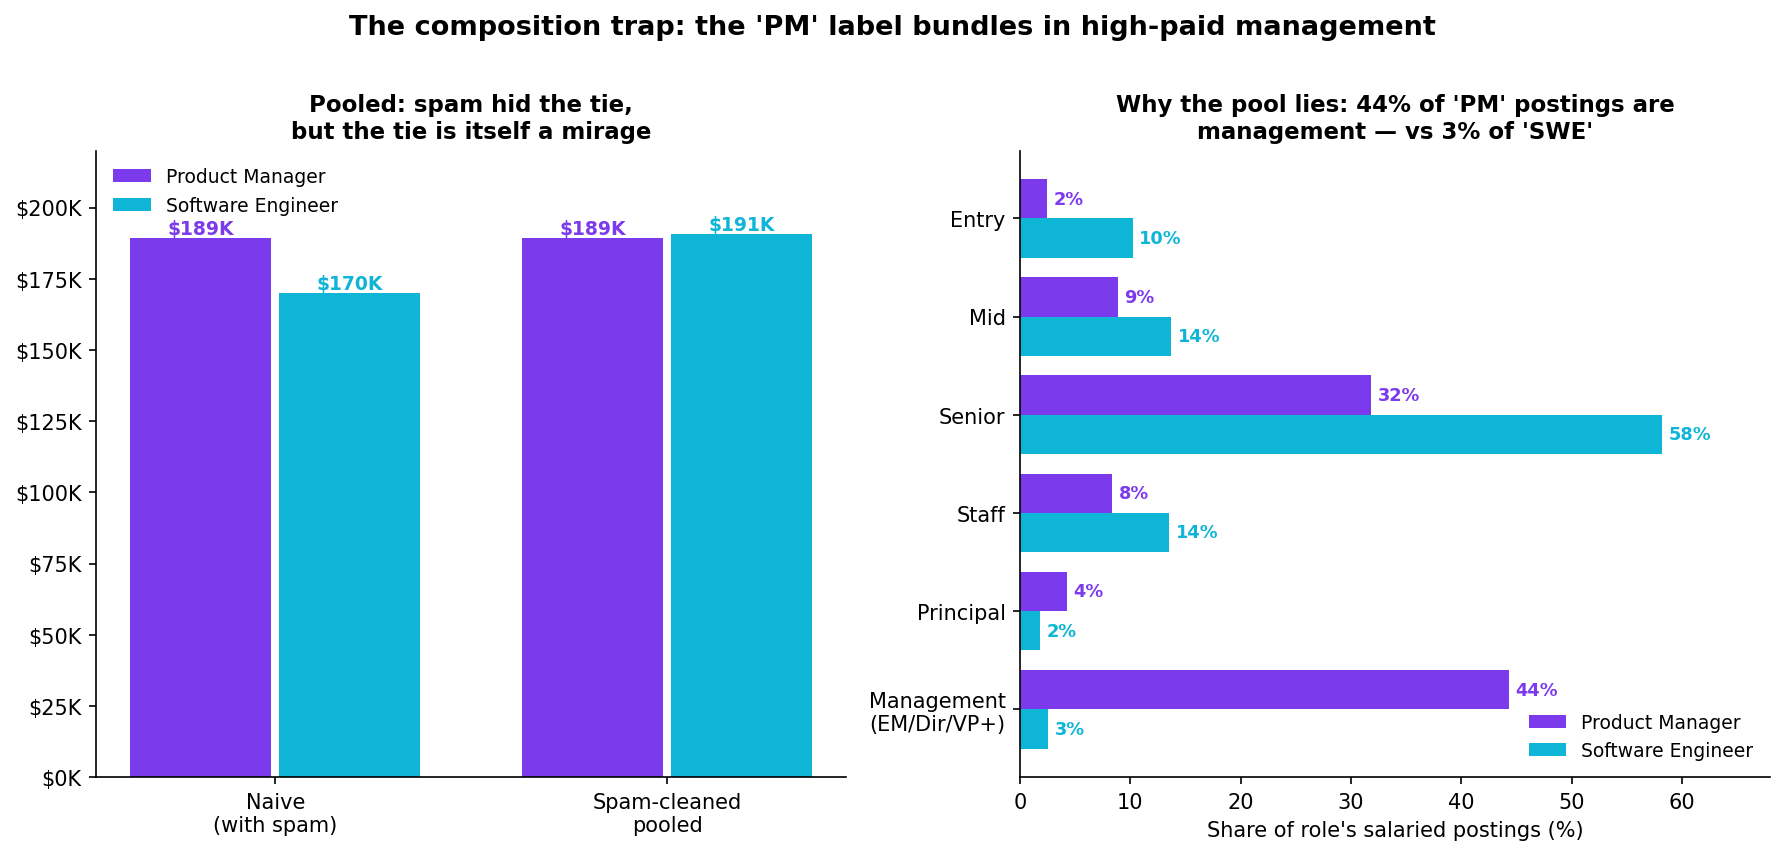
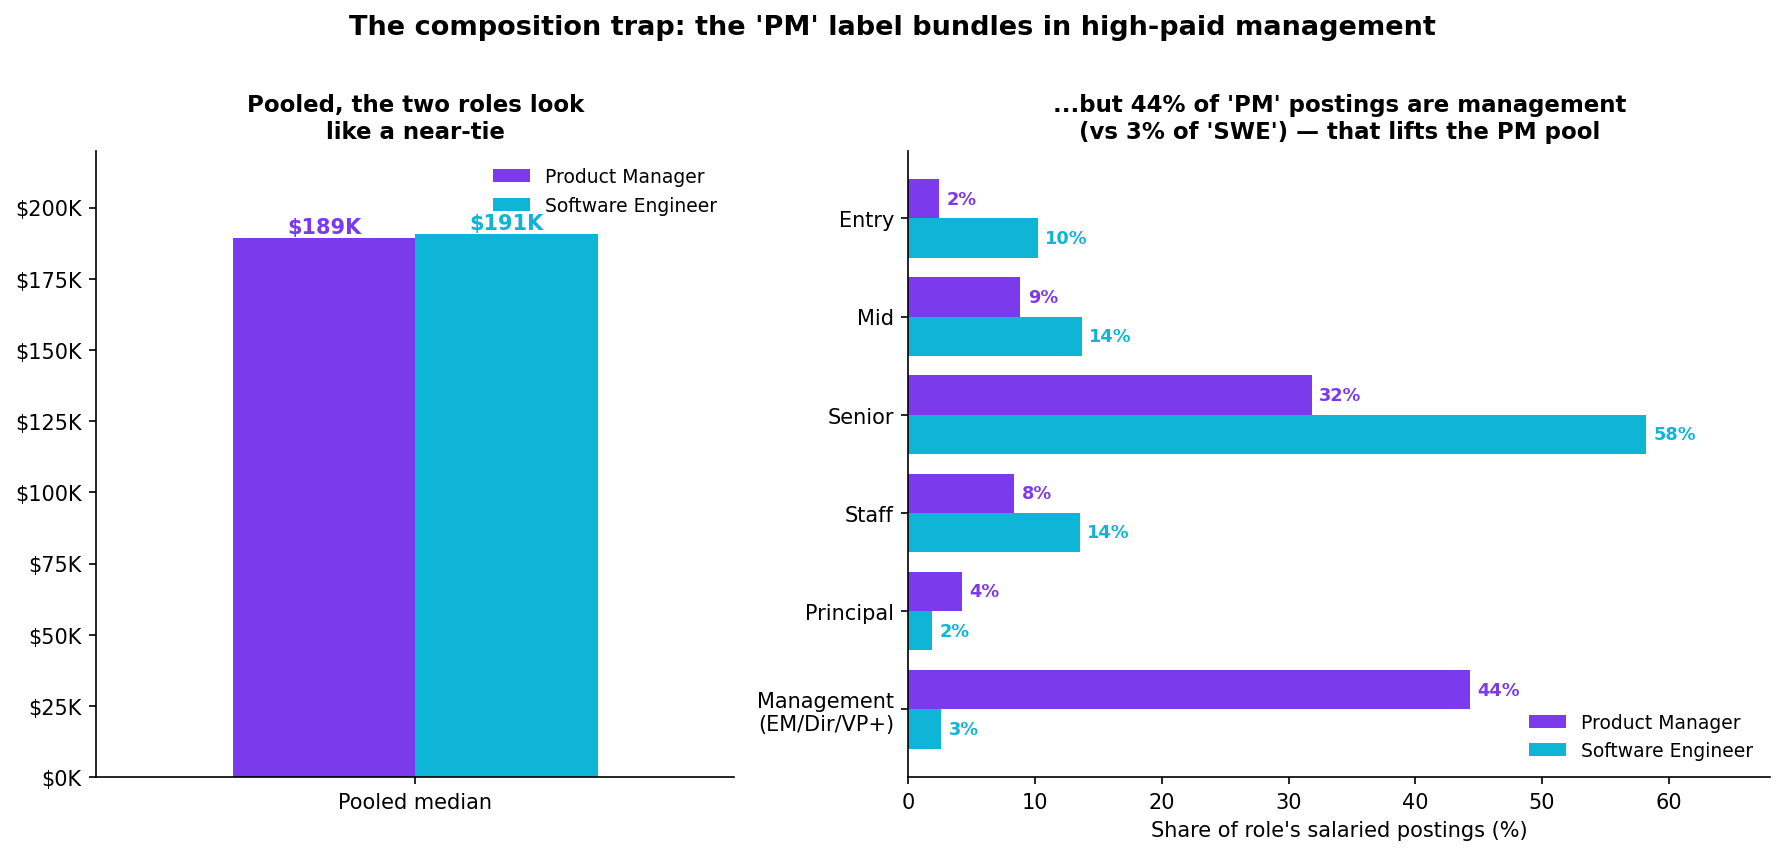
Demote spam-filtering to a methodology footnote
- Rework charts and copy so the composition effect (management bundling) carries the story
- Spam exclusion is routine data hygiene, not a headline; removed from plots and TL;DR
- README leads with pooled near-tie -> composition trap -> level-matched reversal

diff --git a/engineer-vs-pm-pay-ladder/README.md b/engineer-vs-pm-pay-ladder/README.md
@@ -6,57 +6,33 @@
 
 - **Date**: 2026-07-10
 - **Source**: Skillenai labor-market index (`prod-enriched-jobs`), US postings
-- **Scope**: ~26K US "Software Engineer" + "Product Manager" postings; salary analysis on the ~8K with a structured USD range
+- **Scope**: ~26K US "Software Engineer" + "Product Manager" postings; salary analysis on the ~7K with a structured USD range
 - **Prompt**: A widely-shared Levels.fyi post argued that "the median product manager out-earns the median software engineer at almost every big tech company," with Apple, Nvidia, and Uber as the exceptions. We asked whether that holds up in the open job market — using advertised pay instead of self-reported total comp.
 
 ---
 
 ## TL;DR
 
-The Levels.fyi claim reproduces in raw form and then evaporates under two corrections.
+In the open market, the median PM and the median engineer earn about the same on paper — but that pooled near-tie is a composition effect, and it flips the moment you compare like-for-like.
 
 | Comparison (US, USD, base-range midpoint) | Product Manager | Software Engineer | Verdict |
 |---|---:|---:|---|
-| **Naive pooled median** | $189K | $170K | PM ahead by $19K |
-| **Pooled, after removing one spam employer** | $189K | $191K | Dead heat |
+| **Pooled median** | $189K | $191K | Near-tie |
 | **Entry** | $128K | $150K | **Engineer +$22K** |
 | **Mid** | $162K | $170K | **Engineer +$8K** |
 | **Senior** | $188K | $195K | **Engineer +$8K** |
 | **Staff** | $226K | $239K | **Engineer +$14K** |
 | **Principal** | $213K | $227K | **Engineer +$14K** |
 
-Two things were hiding in the pooled number:
-
-1. **A single spam employer** was posting ~2,300 identical "Software Engineer" listings at a fixed $140K–$200K range — a quarter of all salaried SWE postings — dragging the engineer median down to exactly its boilerplate.
-2. **The "Product Manager" label bundles in management.** 44% of PM postings are people-management roles (PM manager, director of product, VP), versus 3% of "Software Engineer" postings. Management pays more, so pooling inflates the PM median.
-
-Clean both up and compare like-for-like, and the software engineer out-earns the product manager **at every rung of the individual-contributor ladder.**
+The pooled tie hides one thing: **the "Product Manager" label bundles in management.** 44% of PM postings are people-management roles (PM manager, director of product, VP), versus 3% of "Software Engineer" postings. Management pays more, so pooling lifts the PM median. Compare the same rung to the same rung and the software engineer out-earns the product manager **at every level of the individual-contributor ladder.**
 
 ---
 
-## 1. The spam trap
-
-Before any salary comparison, aggregate the salaried postings by employer. One name dominates the engineer bucket:
-
-| Software Engineer — top employers (USD, salary present) | Postings |
-|---|---:|
-| **Speechify** | **2,301** |
-| Waymo | 261 |
-| Anduril (all spellings) | ~537 |
-| Anthropic | 185 |
-| SpaceX | 183 |
-
-Speechify carpet-bombs the same handful of roles across hundreds of cities at an identical advertised range. It alone is **25% of salaried "Software Engineer" postings**, and its fixed $140K–$200K band pins the raw engineer median to exactly that number. It has nothing to do with the PM bucket (top PM employers are Anthropic, Adobe, Databricks, Waymo — a long, flat tail). Removing this one spam account lifts the pooled engineer median from $170K to $191K — erasing the entire naive "PM earns more" gap in a single filter.
-
-**Lesson:** a raw median that lands on a suspiciously round number is a data-quality alarm, not a finding.
-
----
-
-## 2. The composition trap
+## The composition trap
 
 ![The composition trap: the 'PM' label bundles in high-paid management](02_composition_trap.png)
 
-Even after the spam is gone, the pooled medians *tie* ($189K PM vs $191K SWE) — and that tie is itself misleading. The two role labels describe populations at very different points on the ladder:
+Pooled, the two role labels tie (~$189K PM vs ~$191K SWE). But they describe populations at very different points on the ladder:
 
 | Seniority | Share of PM postings | Share of SWE postings |
 |---|---:|---:|
@@ -77,7 +53,7 @@ At the senior level — the largest cell (407 PM vs 1,500 sampled SWE) — the e
 
 ---
 
-## 3. The "generalist" role is paid as an engineer
+## The "generalist" role is paid as an engineer
 
 ![The 'generalist' role is paid as an engineer, not a PM](03_product_engineer_ladder.png)
 
@@ -100,7 +76,7 @@ This lines up with a [prior Skillenai analysis](https://github.com/skillenai/ski
 - **Roles**: exact `role.keyword` match on `"Software Engineer"`, `"Product Manager"`, `"Product Engineer"`. These labels are entity-resolved and cleanly separated (e.g. "Product Manager" does not collide with "Program Manager" / "Technical Program Manager").
 - **Geography / currency**: US postings only (`locationCountry: "US"`), `salaryCurrency: "USD"`, with both `salaryMin` and `salaryMax` present. Salary uses the **range midpoint** `(min+max)/2` per posting.
 - **Seniority**: the index's inferred `seniorityLevel` field (~76% coverage). IC ladder = entry / mid / senior / staff / principal; management = manager / director / vp / c-level (and the noisy "lead" grab-bag). Intern excluded.
-- **Spam filter**: one carpet-bombing employer (and one known job-aggregator) excluded from all salary figures; it was 25% of the salaried engineer bucket.
+- **Data hygiene**: a small number of known spam / aggregator employers (which repost identical listings at boilerplate ranges) are excluded from all salary figures, as in every Skillenai comp analysis.
 - **Statistics**: Mann-Whitney U for the level-matched comparison; 2,000-draw bootstrap for the 95% CI on the median difference.
 - **This is advertised base pay, not total compensation.** Levels.fyi reports self-reported total comp (base + equity + bonus); this analysis sees only the advertised base range. At senior levels equity is a large share of engineer comp, so if anything a total-comp view would *widen* the per-level engineer advantage, not close it.
 - **Big Tech is largely absent.** Meta, Google, Apple, Nvidia, and Netflix post through proprietary systems this index doesn't crawl, so we **cannot** reproduce the per-company table from the Levels.fyi post and make no claim about any specific company. This is a read on the broad open market, offered as a complement to — not a contradiction of — their company-level numbers. Notably, the Levels.fyi author's own aside ("PMs tend to be slightly more senior") is exactly the effect that, measured here, fully accounts for the pooled gap.